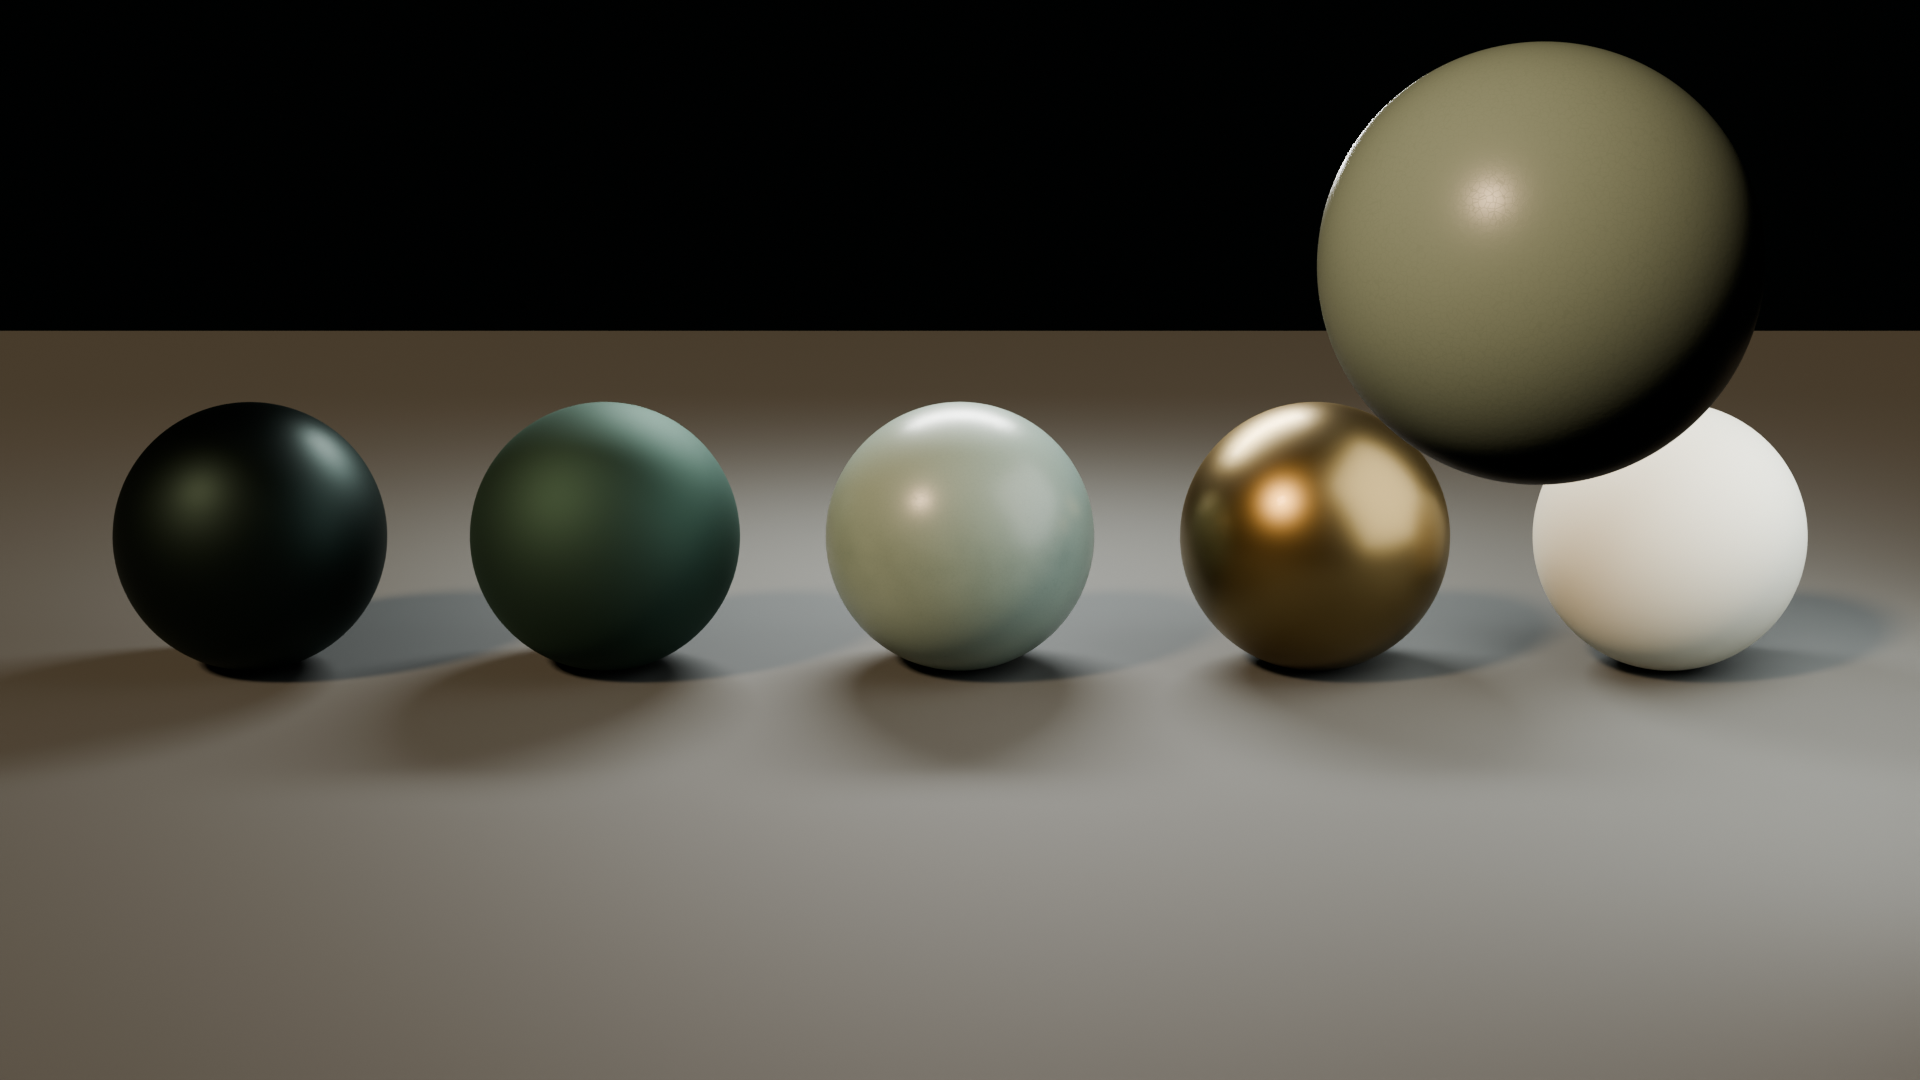
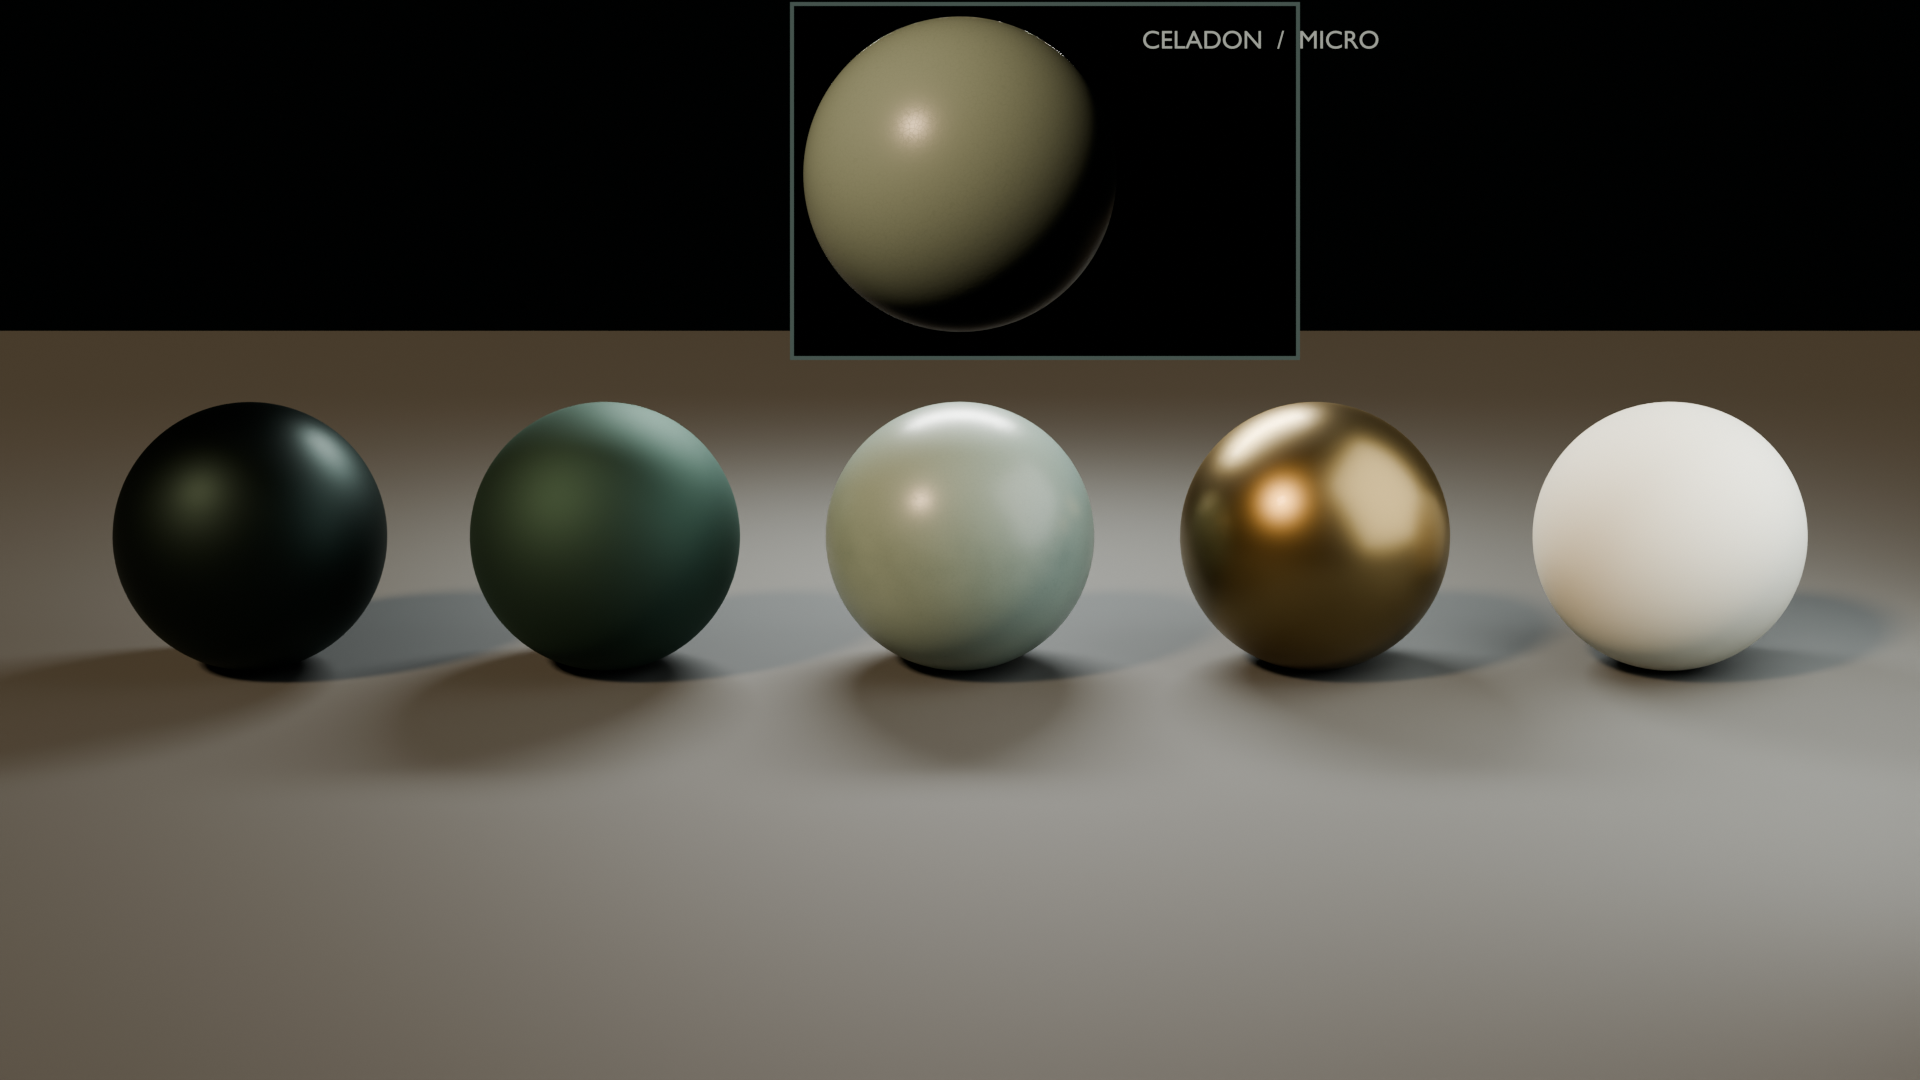
fix: separate celadon inset from material spheres

Changed region(s): [[0.4062, 0.0, 0.9375, 0.4583]]

diff --git a/tools/blender/tests/test_materials.py b/tools/blender/tests/test_materials.py
@@ -85,6 +85,28 @@ def attribute_values(obj, name):
     return tuple(round(item.value, 6) for item in attribute.data)
 
 
+def projected_display_bounds(scene, obj, width=1920, height=1080):
+    projected = [
+        world_to_camera_view(scene, scene.camera, obj.matrix_world @ Vector(corner))
+        for corner in obj.bound_box
+    ]
+    return (
+        min(point.x for point in projected) * width,
+        (1.0 - max(point.y for point in projected)) * height,
+        max(point.x for point in projected) * width,
+        (1.0 - min(point.y for point in projected)) * height,
+    )
+
+
+def projected_gap(first, second):
+    return max(
+        second[0] - first[2],
+        first[0] - second[2],
+        second[1] - first[3],
+        first[1] - second[3],
+    )
+
+
 class MaterialTest(unittest.TestCase):
     def tearDown(self):
         bpy.ops.wm.read_factory_settings(use_empty=True)
@@ -375,8 +397,10 @@ class MaterialTest(unittest.TestCase):
         self.assertEqual(contract["reviewRender"]["engine"], "CYCLES")
         self.assertEqual(contract["reviewRender"]["keyTemperatureK"], 4300)
         self.assertEqual(contract["reviewRender"]["transparentBackground"], False)
-        self.assertEqual(contract["reviewRender"]["celadonCloseup"]["pixelRegion"], [1240, 40, 1840, 520])
-        self.assertEqual(contract["reviewRender"]["celadonCloseup"]["minimumProjectedDiameterPx"], 420)
+        closeup_contract = contract["reviewRender"]["celadonCloseup"]
+        self.assertGreaterEqual(closeup_contract["minimumProjectedDiameterPx"], 280)
+        micro_region = closeup_contract.get("microSampleRegion")
+        self.assertIsNotNone(micro_region)
         self.assertEqual(contract["reviewRender"]["sphereOrder"], [
             "M_Bronze",
             "M_Patina",
@@ -404,11 +428,12 @@ class MaterialTest(unittest.TestCase):
             self.assertGreater(max(sampled_rgb), 0.55)
             self.assertGreater(math.fsum(sampled_rgb) / len(sampled_rgb), 0.04)
 
+            region_left, region_top, region_right, region_bottom = closeup_contract["pixelRegion"]
             closeup_rgb = []
             closeup_gradients = []
-            for display_y in range(40, 520, 4):
+            for display_y in range(region_top, region_bottom, 4):
                 image_y = height - 1 - display_y
-                for x in range(1240, 1840, 4):
+                for x in range(region_left, region_right, 4):
                     index = (image_y * width + x) * 4
                     rgb = tuple(pixels[index : index + 3])
                     closeup_rgb.append(math.fsum(rgb) / 3.0)
@@ -424,10 +449,11 @@ class MaterialTest(unittest.TestCase):
                 0.015,
             )
 
+            micro_left, micro_top, micro_right, micro_bottom = micro_region
             micro_gradients = []
-            for display_y in range(120, 350, 2):
+            for display_y in range(micro_top, micro_bottom, 2):
                 image_y = height - 1 - display_y
-                for x in range(1420, 1620, 2):
+                for x in range(micro_left, micro_right, 2):
                     index = (image_y * width + x) * 4
                     right_index = (image_y * width + x + 2) * 4
                     down_index = ((image_y - 2) * width + x) * 4
@@ -441,9 +467,9 @@ class MaterialTest(unittest.TestCase):
             self.assertLess(p95, 0.04)
 
             micro_laplacian = []
-            for display_y in range(120, 350, 2):
+            for display_y in range(micro_top, micro_bottom, 2):
                 image_y = height - 1 - display_y
-                for x in range(1420, 1620, 2):
+                for x in range(micro_left, micro_right, 2):
                     def luminance(sample_x, sample_y):
                         sample_index = (sample_y * width + sample_x) * 4
                         return math.fsum(pixels[sample_index : sample_index + 3]) / 3.0
@@ -463,45 +489,78 @@ class MaterialTest(unittest.TestCase):
         finally:
             bpy.data.images.remove(image)
 
-    def test_material_board_camera_contains_all_five_spheres_without_clipping(self):
+    def test_material_board_inset_stays_inside_contract_and_clear_of_comparison_spheres(self):
         from materials import build_material_board_scene
 
         build_master_materials()
         scene = build_material_board_scene()
+        contract = json.loads(CONTRACT_PATH.read_text(encoding="utf-8"))
+        closeup_contract = contract["reviewRender"]["celadonCloseup"]
+        inset_region = tuple(closeup_contract["pixelRegion"])
+        minimum_gap = closeup_contract.get("minimumComparisonGapPx", 16)
         self.assertEqual(scene.render.engine, "CYCLES")
         key = scene.objects["material-board/key-4300K"]
         self.assertTrue(key.data.use_temperature)
         self.assertEqual(key.data.temperature, 4300.0)
         closeup = scene.objects["review/celadon-closeup"]
-        closeup_projected = [
-            world_to_camera_view(scene, scene.camera, closeup.matrix_world @ Vector(corner))
-            for corner in closeup.bound_box
-        ]
-        closeup_width = (max(point.x for point in closeup_projected) - min(point.x for point in closeup_projected)) * 1920
-        closeup_height = (max(point.y for point in closeup_projected) - min(point.y for point in closeup_projected)) * 1080
-        self.assertGreaterEqual(closeup_width, 420)
-        self.assertGreaterEqual(closeup_height, 420)
-        self.assertGreater(min(point.x for point in closeup_projected), 0.63)
-        self.assertLess(max(point.x for point in closeup_projected), 0.97)
-        self.assertGreater(min(point.y for point in closeup_projected), 0.50)
-        self.assertLess(max(point.y for point in closeup_projected), 0.98)
+        closeup_bounds = projected_display_bounds(scene, closeup)
+        self.assertGreaterEqual(closeup_bounds[2] - closeup_bounds[0], closeup_contract["minimumProjectedDiameterPx"])
+        self.assertGreaterEqual(closeup_bounds[3] - closeup_bounds[1], closeup_contract["minimumProjectedDiameterPx"])
+        for actual, limit, comparison in zip(
+            closeup_bounds,
+            inset_region,
+            (self.assertGreaterEqual, self.assertGreaterEqual, self.assertLessEqual, self.assertLessEqual),
+        ):
+            comparison(actual, limit)
+        micro_region = closeup_contract.get("microSampleRegion")
+        self.assertIsNotNone(micro_region)
+        for actual, limit, comparison in zip(
+            micro_region,
+            closeup_bounds,
+            (self.assertGreaterEqual, self.assertGreaterEqual, self.assertLessEqual, self.assertLessEqual),
+        ):
+            comparison(actual, limit)
         spheres = sorted(
             (obj for obj in scene.objects if obj.name.startswith("review/sphere/")),
             key=lambda obj: obj.name,
         )
         self.assertEqual(len(spheres), 5)
         for sphere in spheres:
-            projected = [
-                world_to_camera_view(scene, scene.camera, sphere.matrix_world @ Vector(corner))
-                for corner in sphere.bound_box
-            ]
+            sphere_bounds = projected_display_bounds(scene, sphere)
             with self.subTest(sphere=sphere.name):
-                self.assertGreater(min(point.x for point in projected), 0.02)
-                self.assertLess(max(point.x for point in projected), 0.98)
-                self.assertGreater(min(point.y for point in projected), 0.04)
-                self.assertLess(max(point.y for point in projected), 0.96)
+                self.assertGreater(sphere_bounds[0], 1920 * 0.02)
+                self.assertLess(sphere_bounds[2], 1920 * 0.98)
+                self.assertGreater(sphere_bounds[1], 1080 * 0.04)
+                self.assertLess(sphere_bounds[3], 1080 * 0.96)
+                self.assertGreaterEqual(projected_gap(inset_region, sphere_bounds), minimum_gap)
+                self.assertGreaterEqual(projected_gap(closeup_bounds, sphere_bounds), minimum_gap)
                 world_corners = [sphere.matrix_world @ Vector(corner) for corner in sphere.bound_box]
                 self.assertAlmostEqual(min(point.z for point in world_corners), 0.0, places=3)
+
+    def test_material_board_celadon_closeup_is_presented_as_a_framed_inset(self):
+        from materials import build_material_board_scene
+
+        build_master_materials()
+        scene = build_material_board_scene()
+        contract = json.loads(CONTRACT_PATH.read_text(encoding="utf-8"))
+        closeup_contract = contract["reviewRender"]["celadonCloseup"]
+        self.assertEqual(closeup_contract.get("presentation"), "framed inset")
+
+        closeup = scene.objects["review/celadon-closeup"]
+        frame = scene.objects.get("review/celadon-inset-frame")
+        panel = scene.objects.get("review/celadon-inset-panel")
+        label = scene.objects.get("review/celadon-inset-label")
+        self.assertIsNotNone(frame)
+        self.assertIsNotNone(panel)
+        self.assertIsNotNone(label)
+        self.assertEqual(closeup.get("review_role"), "micro-surface-inset")
+        self.assertEqual(frame.get("review_role"), "inset-frame")
+        self.assertEqual(panel.get("review_role"), "inset-panel")
+        self.assertEqual(label.get("review_role"), "inset-label")
+
+        frame_bounds = projected_display_bounds(scene, frame)
+        for actual, expected in zip(frame_bounds, closeup_contract["pixelRegion"]):
+            self.assertAlmostEqual(actual, expected, delta=2.0)
 
 
 if __name__ == "__main__":

diff --git a/tools/blender/materials.py b/tools/blender/materials.py
@@ -2,7 +2,7 @@ import math
 from pathlib import Path
 
 import bpy
-from mathutils import Vector
+from mathutils import Matrix, Vector
 
 
 REPOSITORY_ROOT = Path(__file__).parents[2]
@@ -592,6 +592,62 @@ def _board_ground_material():
     return material
 
 
+def _review_emission_material(name, color, strength):
+    material = bpy.data.materials.new(name)
+    material.use_nodes = True
+    nodes = material.node_tree.nodes
+    links = material.node_tree.links
+    nodes.clear()
+    output = nodes.new("ShaderNodeOutputMaterial")
+    emission = nodes.new("ShaderNodeEmission")
+    emission.inputs["Color"].default_value = color
+    emission.inputs["Strength"].default_value = strength
+    links.new(emission.outputs["Emission"], output.inputs["Surface"])
+    return material
+
+
+def _camera_view_size(scene, camera, depth):
+    width = 2.0 * depth * math.tan(camera.data.angle_x * 0.5)
+    height = width * scene.render.resolution_y / scene.render.resolution_x
+    return width, height
+
+
+def _camera_local_from_pixel(scene, camera, x, y, depth):
+    view_width, view_height = _camera_view_size(scene, camera, depth)
+    return Vector(
+        (
+            (x / scene.render.resolution_x - 0.5) * view_width,
+            (0.5 - y / scene.render.resolution_y) * view_height,
+            -depth,
+        )
+    )
+
+
+def _camera_facing_plane(scene, camera, name, pixel_region, depth, material, role):
+    left, top, right, bottom = pixel_region
+    view_width, view_height = _camera_view_size(scene, camera, depth)
+    bpy.ops.mesh.primitive_plane_add(size=2.0)
+    plane = bpy.context.object
+    plane.name = name
+    plane["review_role"] = role
+    plane.data.materials.append(material)
+    plane.parent = camera
+    plane.matrix_parent_inverse = Matrix.Identity(4)
+    plane.location = _camera_local_from_pixel(
+        scene,
+        camera,
+        (left + right) * 0.5,
+        (top + bottom) * 0.5,
+        depth,
+    )
+    plane.scale = (
+        (right - left) / scene.render.resolution_x * view_width * 0.5,
+        (bottom - top) / scene.render.resolution_y * view_height * 0.5,
+        1.0,
+    )
+    return plane
+
+
 def build_material_board_scene():
     scene = bpy.data.scenes.new("material-board")
     bpy.context.window.scene = scene
@@ -660,7 +716,7 @@ def build_material_board_scene():
     closeup = bpy.context.object
     closeup.name = "review/celadon-closeup"
     closeup["review_material"] = "M_Celadon"
-    closeup["review_role"] = "micro-surface-closeup"
+    closeup["review_role"] = "micro-surface-inset"
     closeup.data.materials.append(bpy.data.materials["M_Celadon"])
     bpy.ops.object.shade_smooth()
     _set_face_attribute(
@@ -710,7 +766,59 @@ def build_material_board_scene():
     camera.location = (0.0, -17.2, 5.0)
     _look_at(camera, (0.0, 0.0, 0.7))
     bpy.context.view_layer.update()
-    closeup.location = camera.matrix_world @ Vector((0.21, 0.10, -1.20))
+    inset_region = (790, 2, 1300, 360)
+    frame_material = _review_emission_material(
+        "review/celadon-inset-frame-material",
+        srgb_hex(PALETTE["celadon"]),
+        0.32,
+    )
+    panel_material = _review_emission_material(
+        "review/celadon-inset-panel-material",
+        srgb_hex(PALETTE["ink"]),
+        0.12,
+    )
+    label_material = _review_emission_material(
+        "review/celadon-inset-label-material",
+        srgb_hex(PALETTE["ash"]),
+        0.62,
+    )
+    _camera_facing_plane(
+        scene,
+        camera,
+        "review/celadon-inset-frame",
+        inset_region,
+        2.30,
+        frame_material,
+        "inset-frame",
+    )
+    _camera_facing_plane(
+        scene,
+        camera,
+        "review/celadon-inset-panel",
+        (794, 6, 1296, 356),
+        2.295,
+        panel_material,
+        "inset-panel",
+    )
+    label_curve = bpy.data.curves.new("review/celadon-inset-label", "FONT")
+    label_curve.body = "CELADON  /  MICRO"
+    label_curve.align_x = "LEFT"
+    label_curve.align_y = "TOP"
+    label_curve.size = 0.012
+    label_curve.materials.append(label_material)
+    label = bpy.data.objects.new("review/celadon-inset-label", label_curve)
+    label["review_role"] = "inset-label"
+    scene.collection.objects.link(label)
+    label.parent = camera
+    label.matrix_parent_inverse = Matrix.Identity(4)
+    label.location = _camera_local_from_pixel(scene, camera, 1142, 28, 1.55)
+    closeup.location = camera.matrix_world @ _camera_local_from_pixel(
+        scene,
+        camera,
+        960,
+        175,
+        1.69,
+    )
     scene.camera = camera
 
     bpy.context.view_layer.update()
